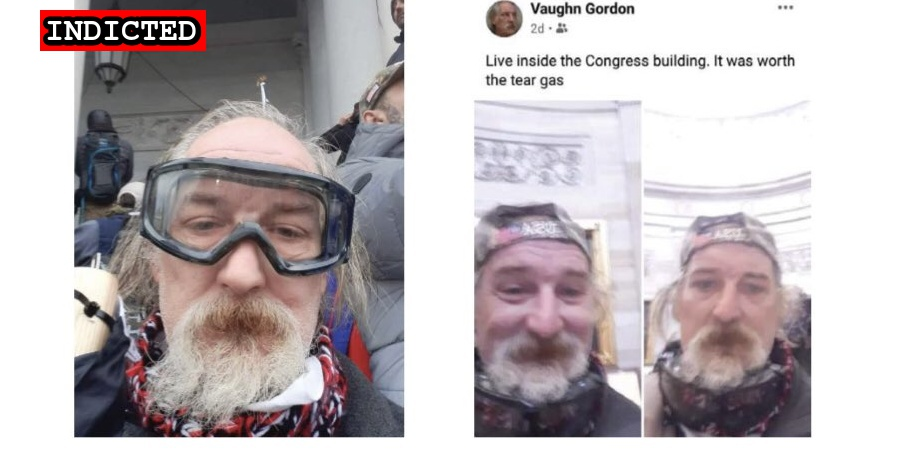
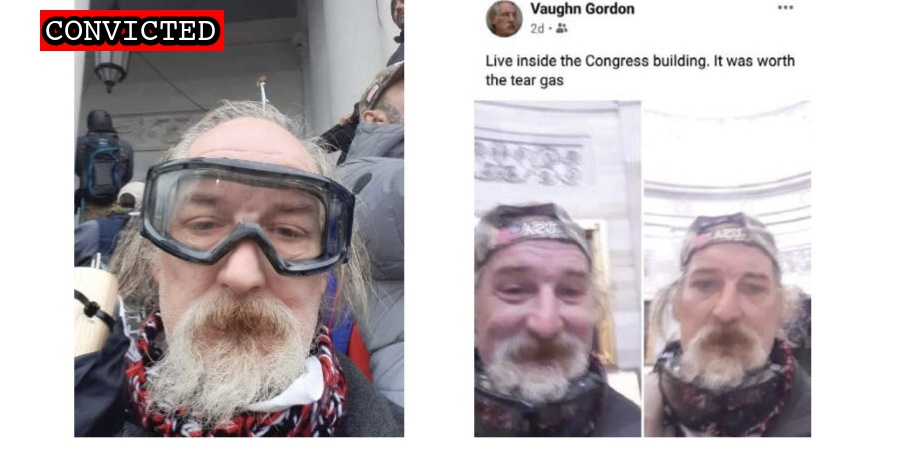
New conviction

Changed region(s): [[0.0311, 0.0, 0.2489, 0.1244]]

diff --git a/docs/_suspects/vaughn-gordon.md b/docs/_suspects/vaughn-gordon.md
@@ -4,15 +4,18 @@ lastName: Gordon
 hashtag: VaughnGordon
 aka:
 residence: Louisiana
-status: Indicted
+status: Convicted
 date: 2021-01-14
 charged: 2021-01-14
 indicted: 2021-02-09
-convicted:
+convicted: 2022-09-28
+acquitted:
 sentenced:
 dismissed:
 deceased:
 plea_hearing: 2022-09-28
+trial_date:
+trial_type:
 sentencing: 2023-01-17
 age: 50
 occupation:
@@ -34,9 +37,12 @@ published: true
 caseNumber: 1:21-cr-99
 videos:
 charges:
+- code: 40 USC § 5104(e)(2)(G)
+  title: Parading, demonstrating or picketing in a Capitol building
+  url: https://www.law.cornell.edu/uscode/text/40/5104
+  felony: false
 sentence:
 ---
-
 - [News Report](https://www.theadvocate.com/acadiana/news/article_489d5514-56b3-11eb-bbbb-2b9a6a6e6984.html)
 - [Complaint](https://www.justice.gov/opa/page/file/1354986/download)
 - [Statement of Facts](https://www.justice.gov/opa/page/file/1354991/download)

diff --git a/docs/_suspects/shawn-price.md b/docs/_suspects/shawn-price.md
@@ -12,7 +12,7 @@ convicted:
 sentenced:
 dismissed:
 deceased:
-plea_hearing: 2021-10-13
+plea_hearing: 2022-10-13
 sentencing:
 age: 26
 occupation:
